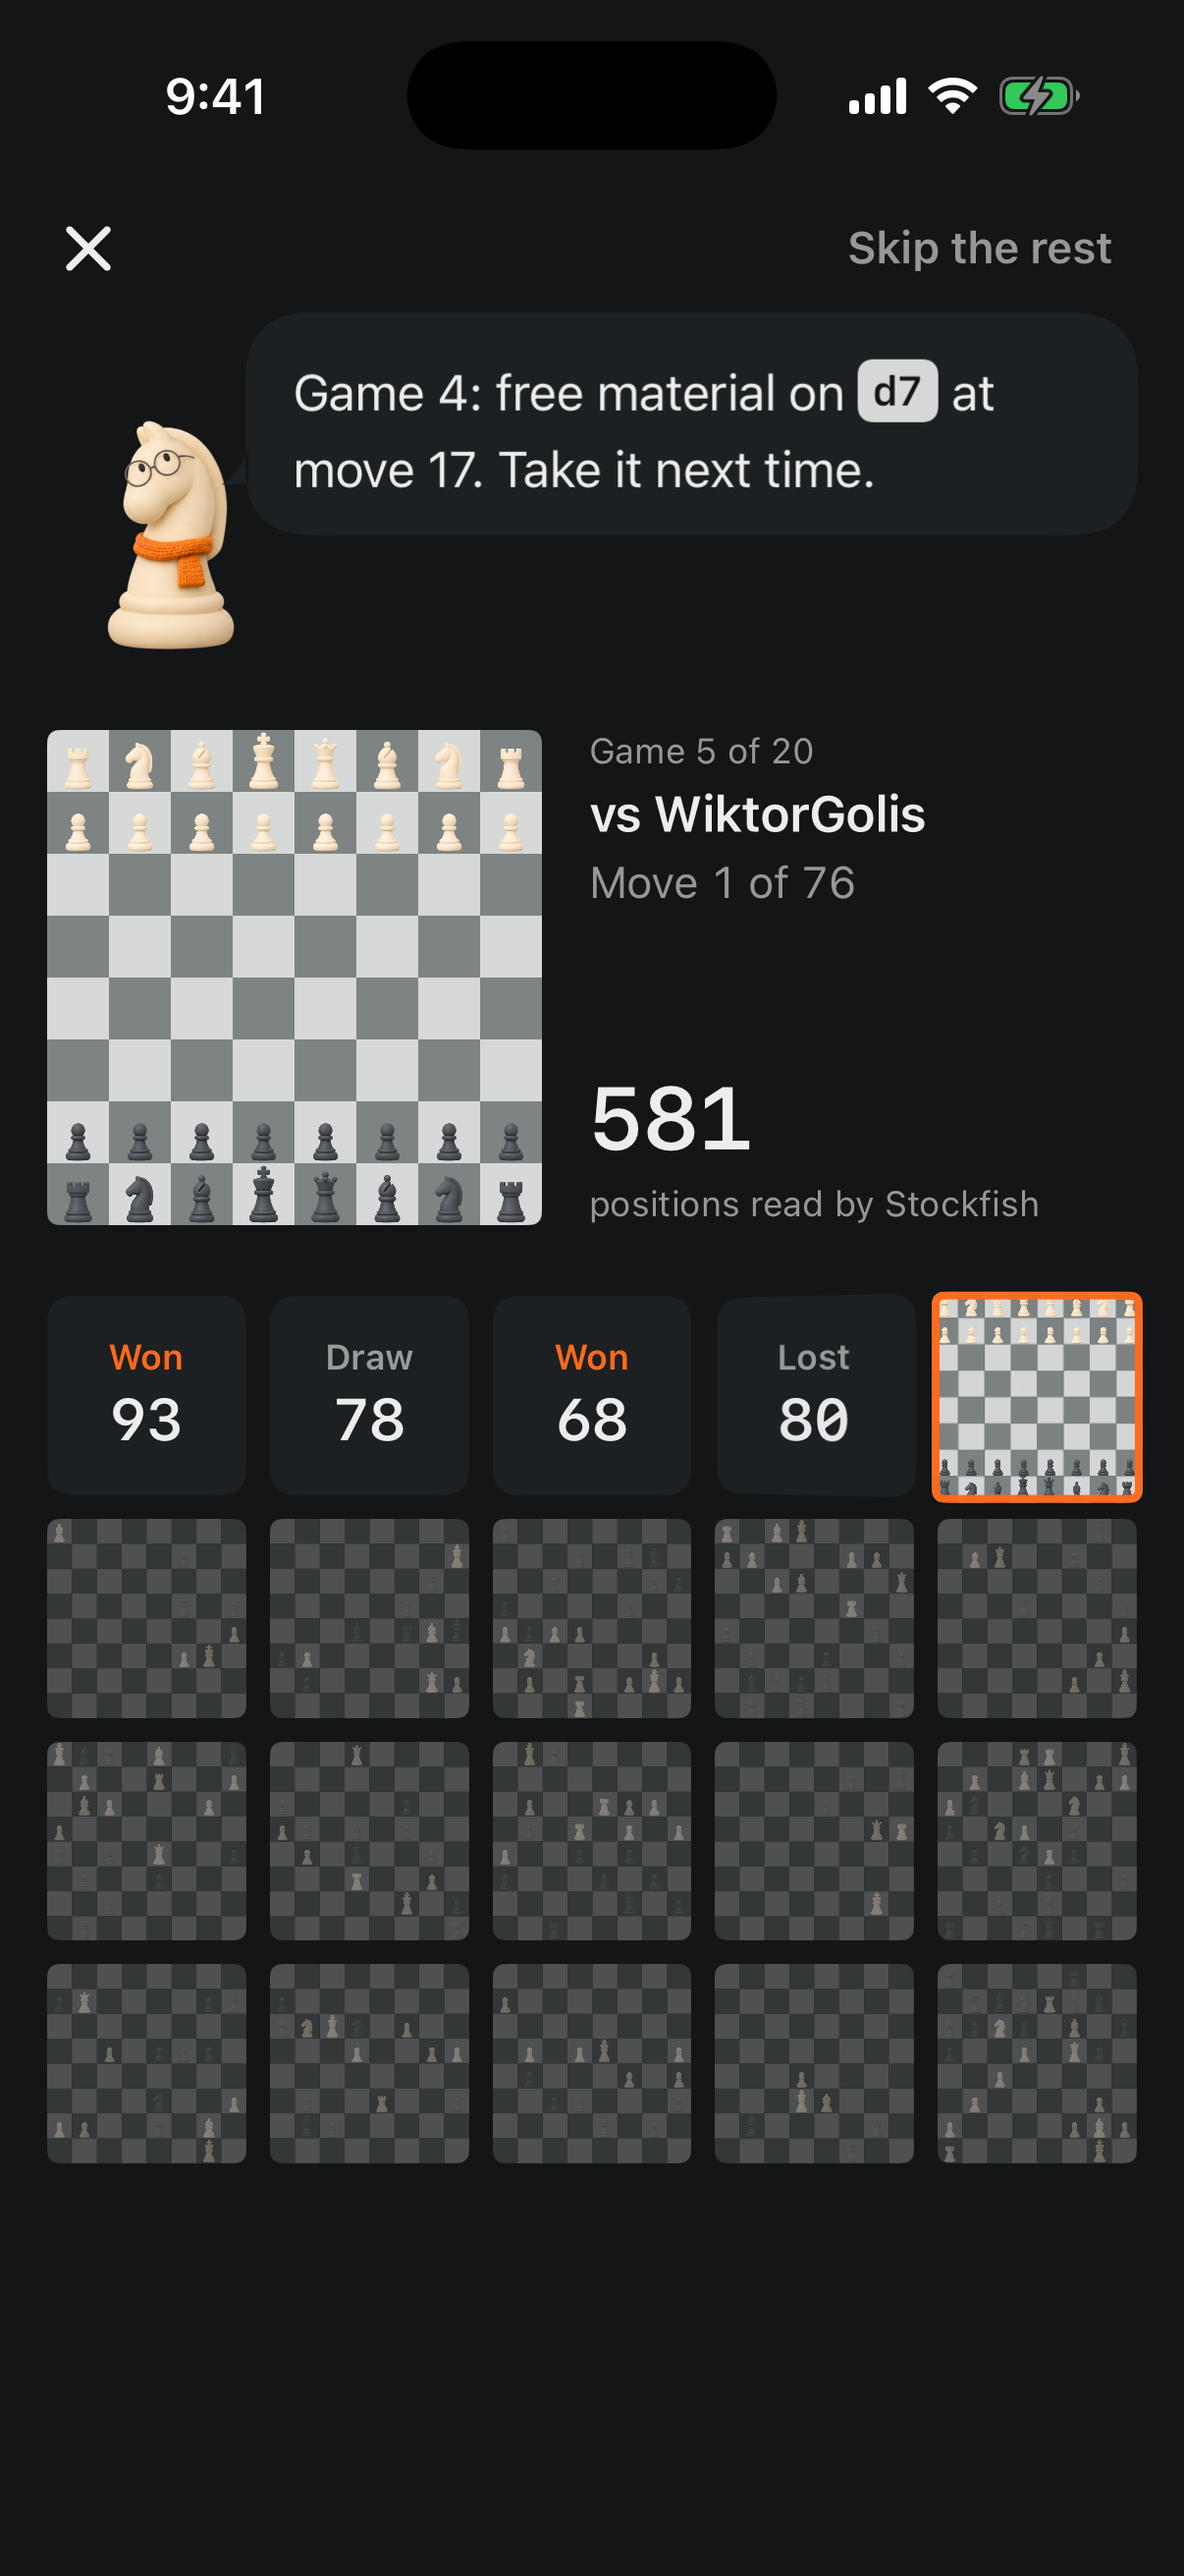
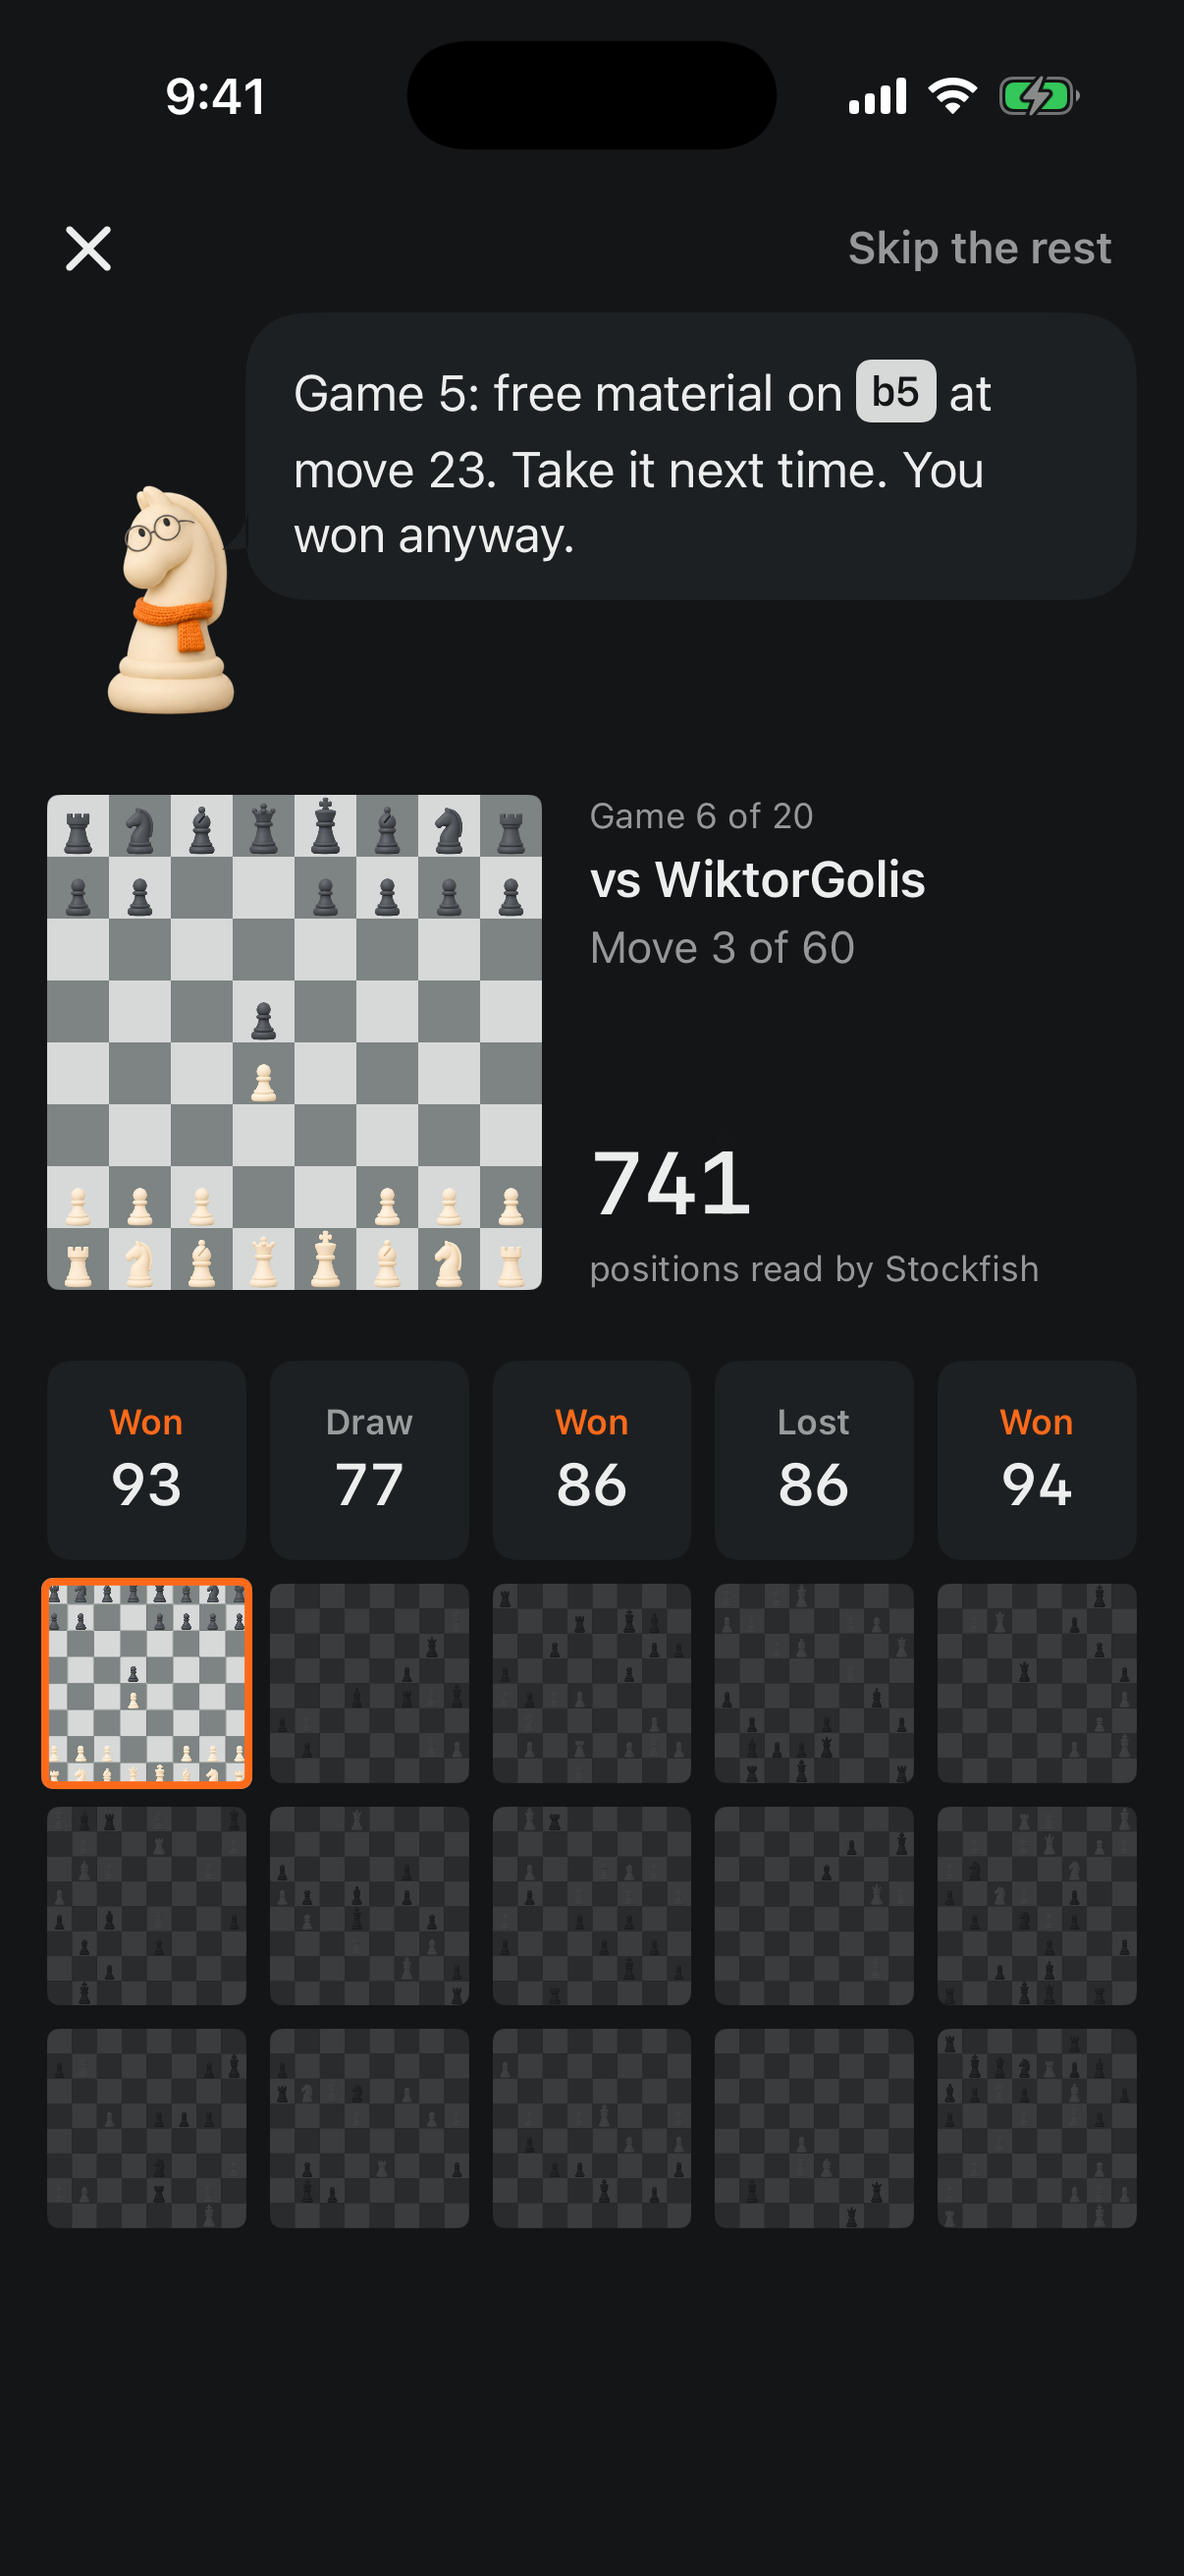
fix(onboarding): screenshot pass — coach on every step, tighter goal, crosshair glyph, tests
- Coach lines on platform and username (reacts to the lookup); verbatim numbers (no locale grouping)
- Goal: equal-width period chips, shorter copy; reveal marks the better square; plan summary merges puzzles
- Launch tests inject Entitlements and cover first-launch onboarding; onboarding app tests
- Debug hooks for scripted runs (-onboardingDepth, -onboardingRating, -onboardingFinish); screenshots

diff --git a/AppTests/LaunchTests.swift b/AppTests/LaunchTests.swift
@@ -11,15 +11,40 @@ struct LaunchTests {
         let scene = try #require(UIApplication.shared.connectedScenes.first as? UIWindowScene)
         let window = UIWindow(windowScene: scene)
         let container = try ModelContainer(
-            for: GameRecord.self, configurations: ModelConfiguration(isStoredInMemoryOnly: true, cloudKitDatabase: .none))
+            for: ModelStore.schema,
+            configurations: ModelConfiguration(schema: ModelStore.schema, isStoredInMemoryOnly: true, cloudKitDatabase: .none))
+        let onboarded = UserDefaults.standard.object(forKey: Pref.hasOnboarded)
+        UserDefaults.standard.set(true, forKey: Pref.hasOnboarded)
+        defer { UserDefaults.standard.set(onboarded, forKey: Pref.hasOnboarded) }
         let host = UIHostingController(rootView: RootTabView()
             .environment(EngineHub())
+            .environment(Entitlements())
             .modelContainer(container))
         window.rootViewController = host
         window.makeKeyAndVisible()
         host.view.layoutIfNeeded()
         let tabs = try #require(findTabBarController(host))
         #expect(tabs.viewControllers?.count == 4)
+    }
+
+    /// First launch: onboarding instead of the tabs.
+    @Test func firstLaunchShowsOnboarding() throws {
+        let scene = try #require(UIApplication.shared.connectedScenes.first as? UIWindowScene)
+        let window = UIWindow(windowScene: scene)
+        let container = try ModelContainer(
+            for: ModelStore.schema,
+            configurations: ModelConfiguration(schema: ModelStore.schema, isStoredInMemoryOnly: true, cloudKitDatabase: .none))
+        let onboarded = UserDefaults.standard.object(forKey: Pref.hasOnboarded)
+        UserDefaults.standard.removeObject(forKey: Pref.hasOnboarded)
+        defer { UserDefaults.standard.set(onboarded, forKey: Pref.hasOnboarded) }
+        let host = UIHostingController(rootView: RootTabView()
+            .environment(EngineHub())
+            .environment(Entitlements())
+            .modelContainer(container))
+        window.rootViewController = host
+        window.makeKeyAndVisible()
+        host.view.layoutIfNeeded()
+        #expect(findTabBarController(host) == nil)
     }
 
     private func findTabBarController(_ vc: UIViewController) -> UITabBarController? {

diff --git a/App/Features/Onboarding/GoalStep.swift b/App/Features/Onboarding/GoalStep.swift
@@ -32,7 +32,7 @@ struct GoalStep: View {
     private var coachPose: CoachPose { model.chance >= 60 ? .pleased : (model.chance < 25 ? .thinking : .neutral) }
 
     private var coachText: String {
-        "Where do you want to be? Drag along the players. I'll be honest about the odds."
+        "Pick a target along the players. I'll be honest about the odds."
     }
 
     private var readout: some View {
@@ -40,7 +40,7 @@ struct GoalStep: View {
         return VStack(alignment: .leading, spacing: DS.Spacing.xs) {
             HStack(alignment: .lastTextBaseline, spacing: DS.Spacing.sm) {
                 Text(model.target, format: .number.grouping(.never))
-                    .font(.system(size: 64, weight: .bold, design: .monospaced))
+                    .font(.system(size: 56, weight: .bold, design: .monospaced))
                     .foregroundStyle(DS.Color.text)
                     .contentTransition(.numericText(value: Double(model.target)))
                     .animation(.snappy(duration: 0.15), value: model.target)

diff --git a/App/Features/Onboarding/OnboardingModel.swift b/App/Features/Onboarding/OnboardingModel.swift
@@ -214,9 +214,14 @@ final class OnboardingModel {
             let events = AsyncStream<OnboardingEvent>.makeStream()
             let games = self.games
             let setFastEngine = self.setFastEngine
-            let runner = Task.detached {
+            var depth = OnboardingAnalysis.defaultDepth
+            #if DEBUG
+            // Screenshot hook: a shallower search so a scripted run takes seconds, not minutes.
+            if UserDefaults.standard.integer(forKey: "onboardingDepth") > 0 { depth = UserDefaults.standard.integer(forKey: "onboardingDepth") }
+            #endif
+            let runner = Task.detached { [depth] in
                 await setFastEngine(true)
-                let out = await OnboardingAnalysis(engine: engine).run(games) { events.continuation.yield($0) }
+                let out = await OnboardingAnalysis(engine: engine, depth: depth).run(games) { events.continuation.yield($0) }
                 await setFastEngine(false)
                 events.continuation.finish()
                 return out

diff --git a/AppTests/OnboardingTests.swift b/AppTests/OnboardingTests.swift
@@ -11,7 +11,7 @@ struct OnboardingTests {
         let container = try ModelContainer(
             for: ModelStore.schema,
             configurations: ModelConfiguration(schema: ModelStore.schema, isStoredInMemoryOnly: true, cloudKitDatabase: .none))
-        return container.mainContext
+        return ModelContext(container)
     }
 
     private func snapshot(_ id: UUID = UUID()) -> GameSnapshot {
@@ -43,7 +43,8 @@ struct OnboardingTests {
         ProfileStore.saveGames([snapshot(id)], in: ctx)
         let games = try ctx.fetch(FetchDescriptor<GameRecord>())
         #expect(games.count == 2)
-        #expect(games.compactMap(\.snapshot).allSatisfy(\.isImported))
+        let imported = games.compactMap(\.snapshot).allSatisfy { $0.isImported }
+        #expect(imported)
     }
 
     @Test func resetClearsOnboardingToo() throws {

diff --git a/App/Features/Onboarding/OnboardingDebug.swift b/App/Features/Onboarding/OnboardingDebug.swift
@@ -9,6 +9,7 @@ import ChessCore
 ///   -onboardingSkipAfter 4            skip the rest after N analysed games
 ///   -onboardingAdvance 6              then walk reveal → goal → plan, N seconds per step
 ///   -onboardingNew 1,1,0              new-player path with these answers
+///   -onboardingDepth 8                shallower analysis for quick scripted runs
 ///   -onboardingFinish 5               on the plan, press Start day 1 after N seconds
 /// Every step is printed with an `ONBOARDING` prefix so a script can screenshot on cue.
 @MainActor

diff --git a/App/Features/Onboarding/PlanStep.swift b/App/Features/Onboarding/PlanStep.swift
@@ -20,7 +20,7 @@ struct PlanStep: View {
     private var coachText: String {
         guard let plan = model.plan else { return "Here's your week." }
         let focus = plan.focus.prefix(2).map { $0.shortName.lowercased() }.joined(separator: " and ")
-        return "Here's your week. We start with **\(focus)**. Ten minutes a day is enough."
+        return "Here's your week: **\(focus)** first. Ten minutes a day."
     }
 }
 
